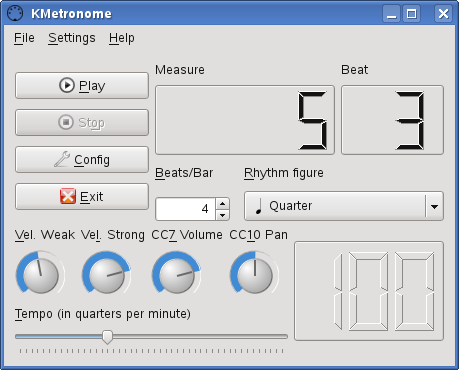
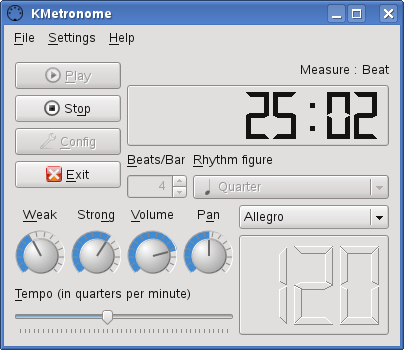
* screenshots updated * fix output event calls
git-svn-id: https://svn.code.sf.net/p/kmetronome/code/trunk@57 ea54cc14-8072-40c6-bac7-338dc0ed4500

Changed region(s): [[0.0, 0.0, 1.0, 1.0], [0.0297, 0.8286, 0.6535, 0.9714], [0.0, 0.9714, 0.0297, 1.0]]

diff --git a/src/sequenceradapter.cpp b/src/sequenceradapter.cpp
@@ -174,7 +174,7 @@ void SequencerAdapter::metronome_note(int note, int vel, int tick)
     ev->scheduleTick(m_queueId, tick, false);
     ev->setSource(m_outputPortId);
     ev->setSubscribers();
-	m_Client->output(ev);
+	m_Client->outputDirect(ev);
 	delete ev;
 }
 
@@ -184,7 +184,7 @@ void SequencerAdapter::metronome_echo(int tick, int ev_type)
     ev.setSource(m_outputPortId);
     ev.setDestination(m_clientId, m_inputPortId);
     ev.scheduleTick(m_queueId, tick, false);
-    m_Client->output(&ev);
+    m_Client->outputDirect(&ev);
 }
 
 void SequencerAdapter::metronome_pattern(int tick) 
@@ -199,7 +199,7 @@ void SequencerAdapter::metronome_pattern(int tick)
 		t += duration;
 	}
 	metronome_echo(t, SND_SEQ_EVENT_USR0);
-	m_Client->drainOutput();
+	//m_Client->drainOutput();
 }
 
 void SequencerAdapter::metronome_set_program() 
@@ -217,6 +217,7 @@ void SequencerAdapter::metronome_set_tempo()
     t.setPPQ(m_resolution);
     t.setTempo((int)(6e7 / m_bpm));
 	m_Queue->setTempo(t);
+	m_Client->drainOutput();
 }
 
 void SequencerAdapter::metronome_set_controls()
@@ -258,7 +259,10 @@ void SequencerAdapter::parse_sysex(SequencerEvent *ev)
 {
 	int num, den;
 	SysExEvent* syx = dynamic_cast<SysExEvent*>(ev);
-	if (syx == NULL) return;
+	if (syx == NULL) {
+	    return;
+	}
+    qDebug() << "SysExEvent length = " << syx->getLength() << endl;
 	unsigned char *ptr =(unsigned char *) syx->getData();
 	if (syx->getLength() < 6) return;
 	if (*ptr++ != 0xf0) return;
@@ -317,6 +321,7 @@ void SequencerAdapter::sequencerEvent(SequencerEvent *ev)
         midi_stop();
         break;
     case SND_SEQ_EVENT_SYSEX:
+        qDebug() << "SND_SEQ_EVENT_SYSEX received" << endl; 
         parse_sysex(ev);
         break;
     }
